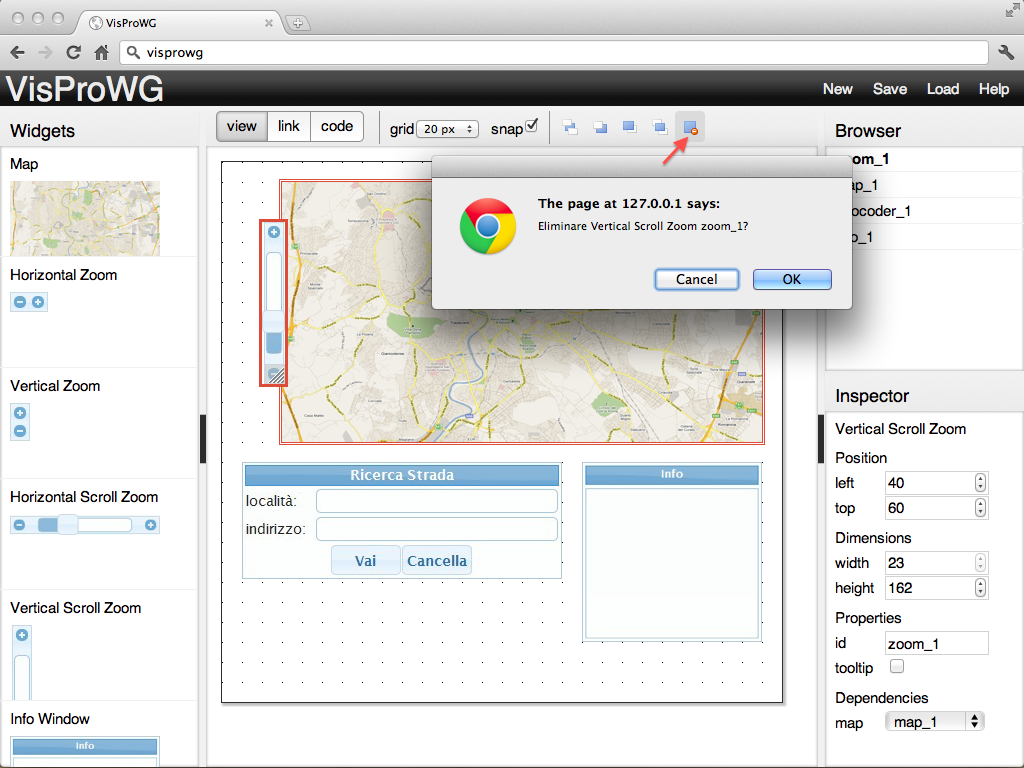
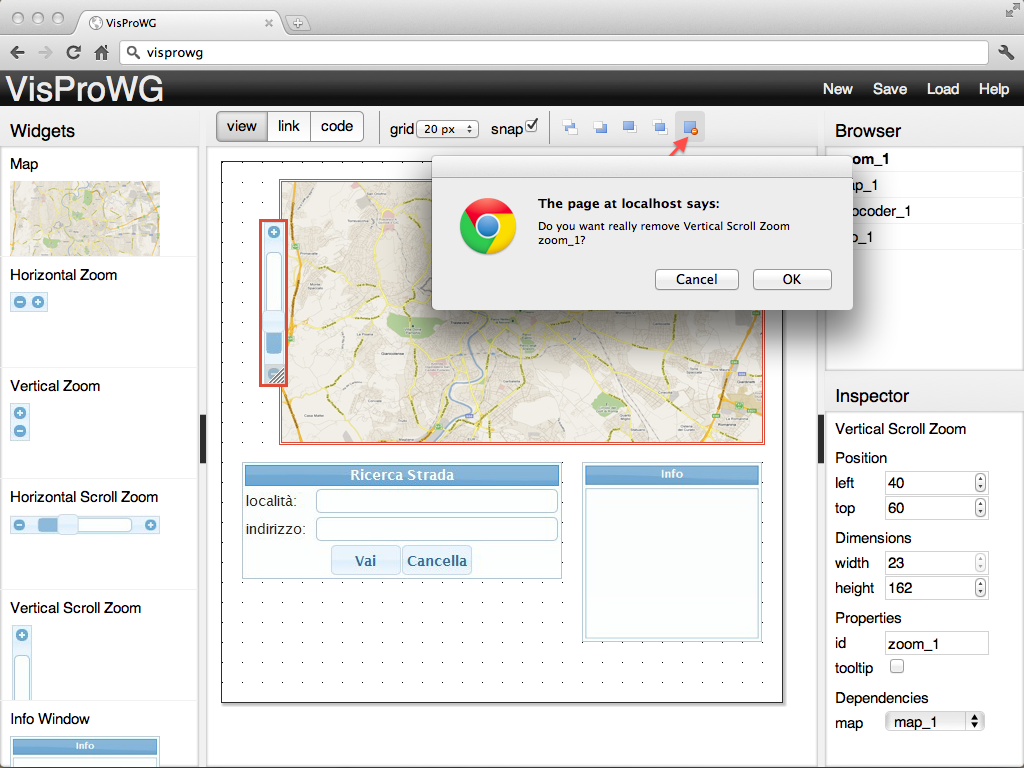
crumbs

Changed region(s): [[0.4062, 0.1875, 0.8438, 0.3438], [0.625, 0.3438, 0.8125, 0.4062]]

diff --git a/docs/docs.html b/docs/docs.html
@@ -1002,7 +1002,7 @@ creare un nuovo progetto;
 </li>
 <li>
 <p>
-salvare e ripristinare il progetto in lavorazione (<em>Save</em> - <em>Restore</em>);
+salvare e ripristinare il progetto in lavorazione (<em>Save</em> - <em>Load</em>);
 </p>
 </li>
 <li>
@@ -1396,7 +1396,7 @@ prelevamento del codice [1];
 <div id="footnotes"><hr></div>
 <div id="footer">
 <div id="footer-text">
-Last updated 2011-10-02 15:58:58 CEST
+Last updated 2011-10-04 22:27:53 CEST
 </div>
 </div>
 </body>

diff --git a/src/vispro.view.widgetBar.js b/src/vispro.view.widgetBar.js
@@ -116,7 +116,7 @@ vispro.view.WidgetBar = Backbone.View.extend({
         var model = this.model,
             workspace = this.workspace;
 
-        if (window.confirm('Eliminare ' + model.label + ' ' + model.id + '?')) {
+        if (window.confirm('Do you want really remove ' + model.label + ' ' + model.id + '?')) {
             model.destroy({});
             workspace.overlap();
         }
